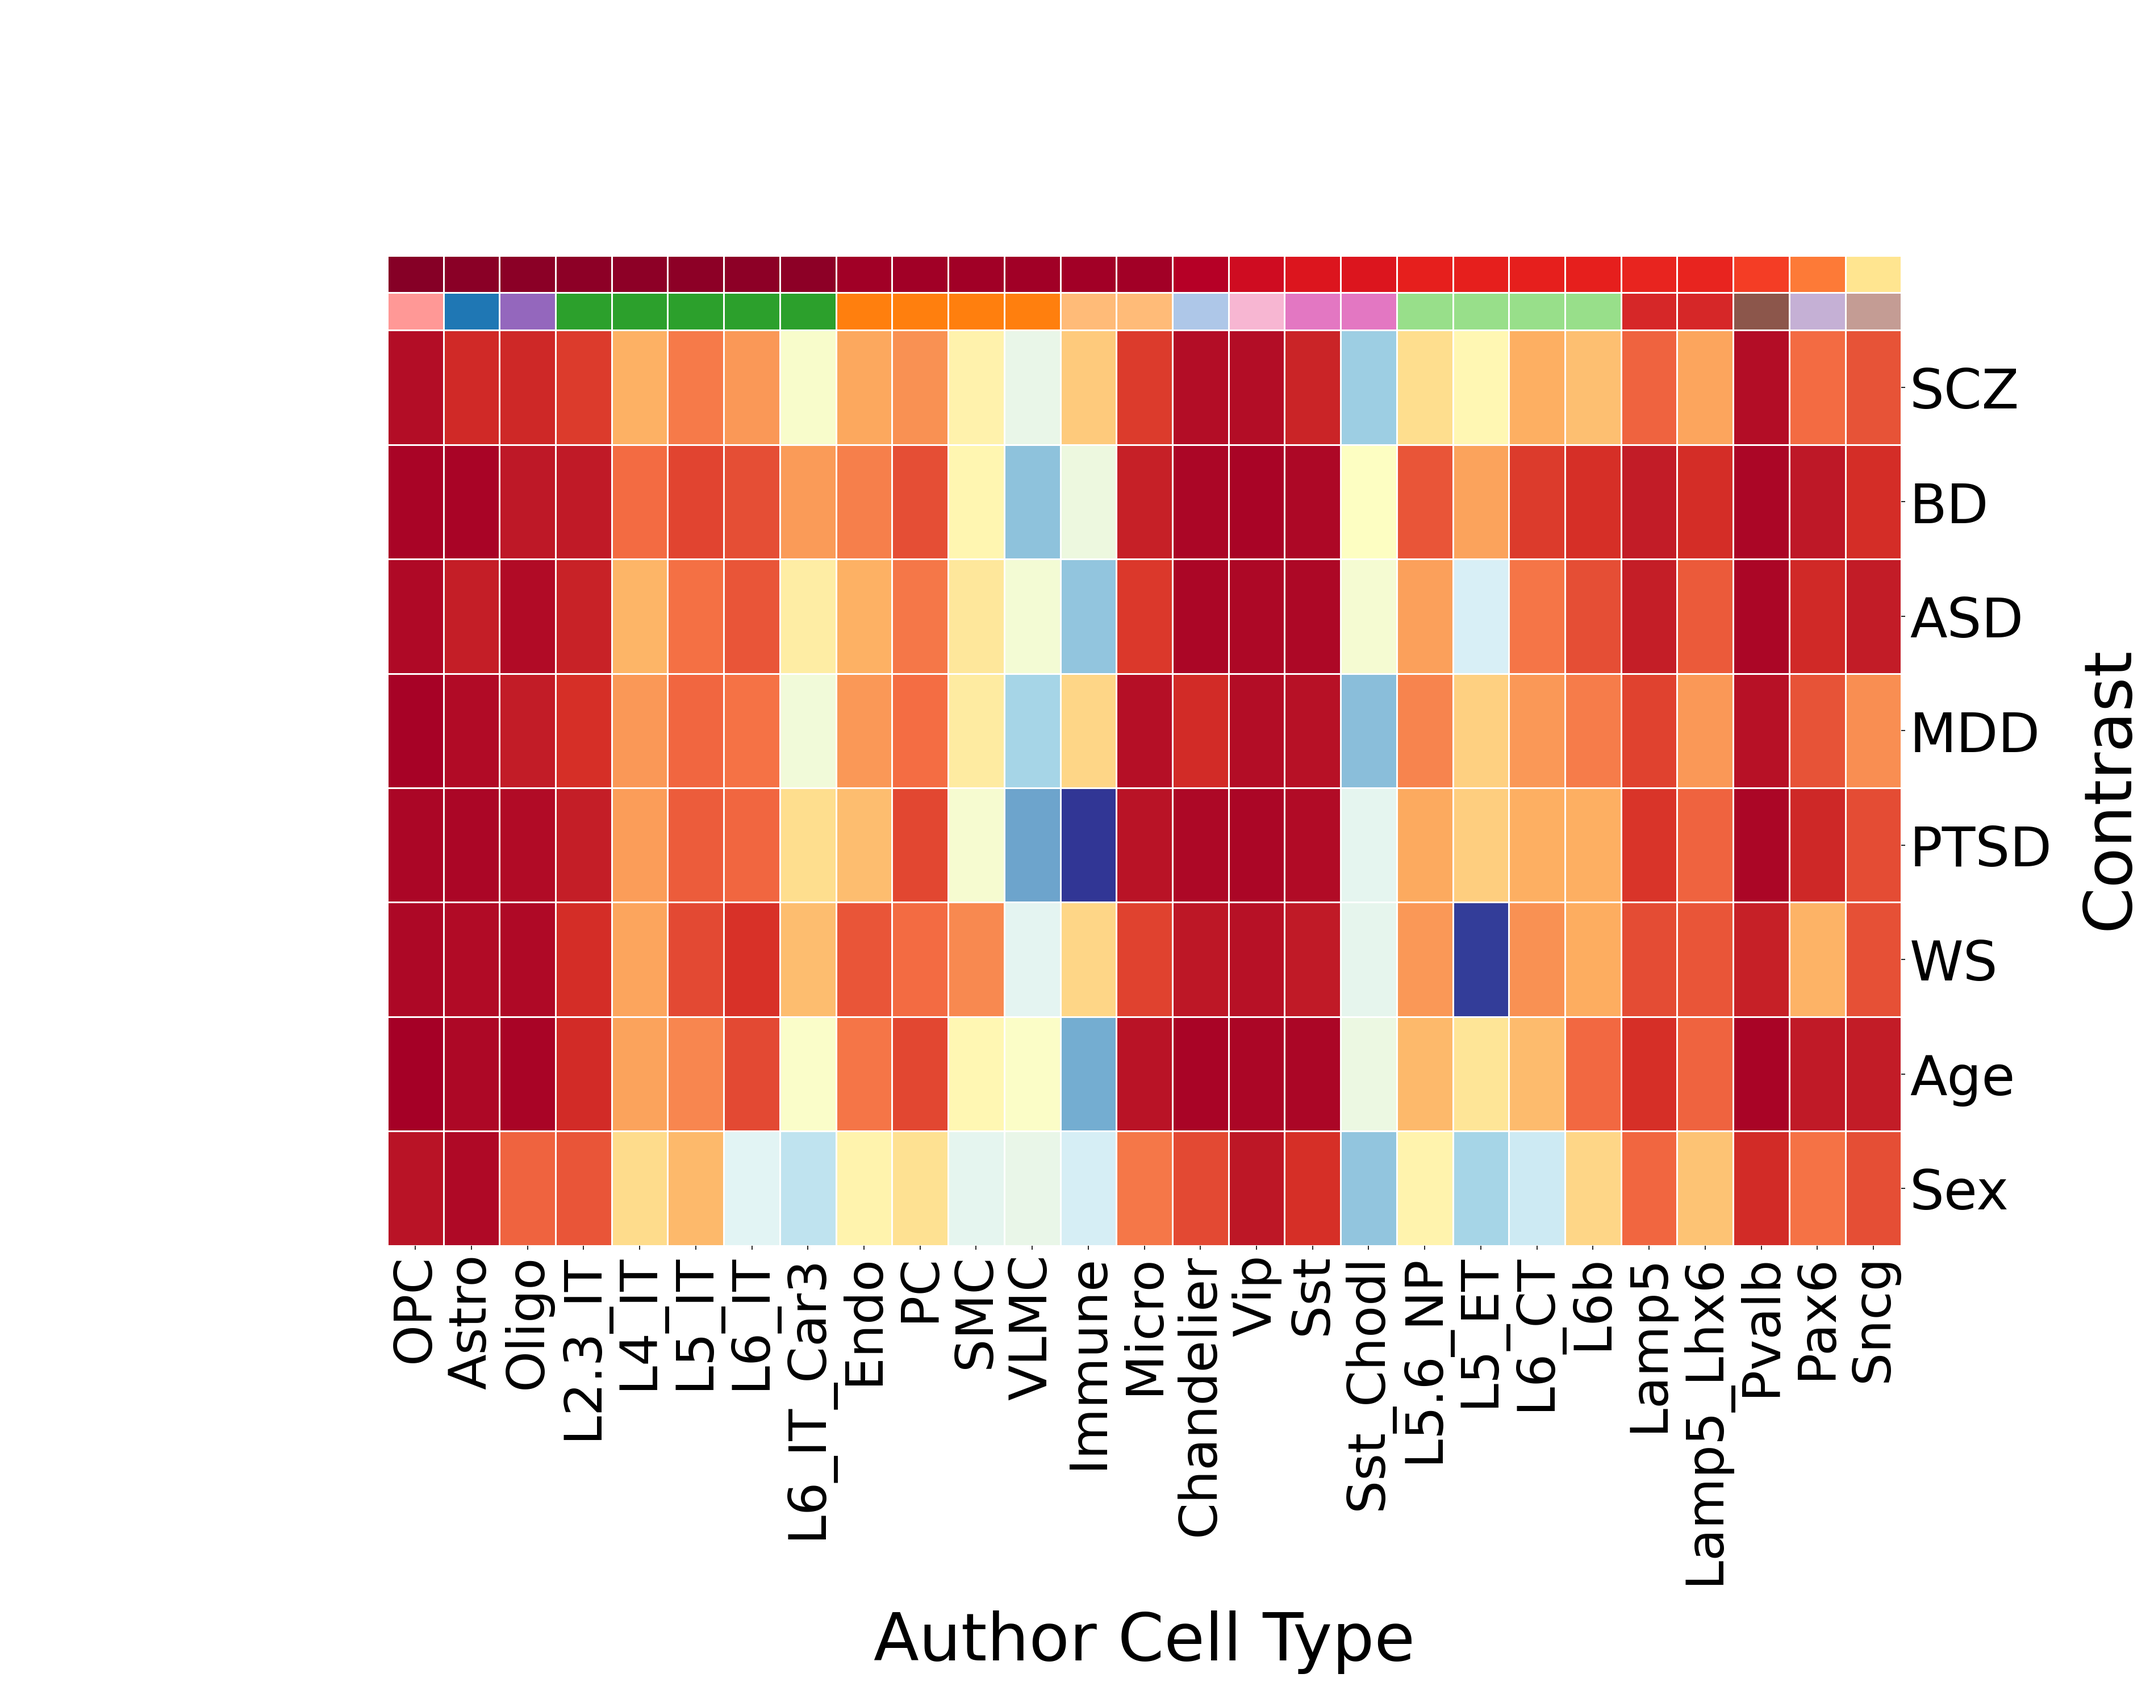
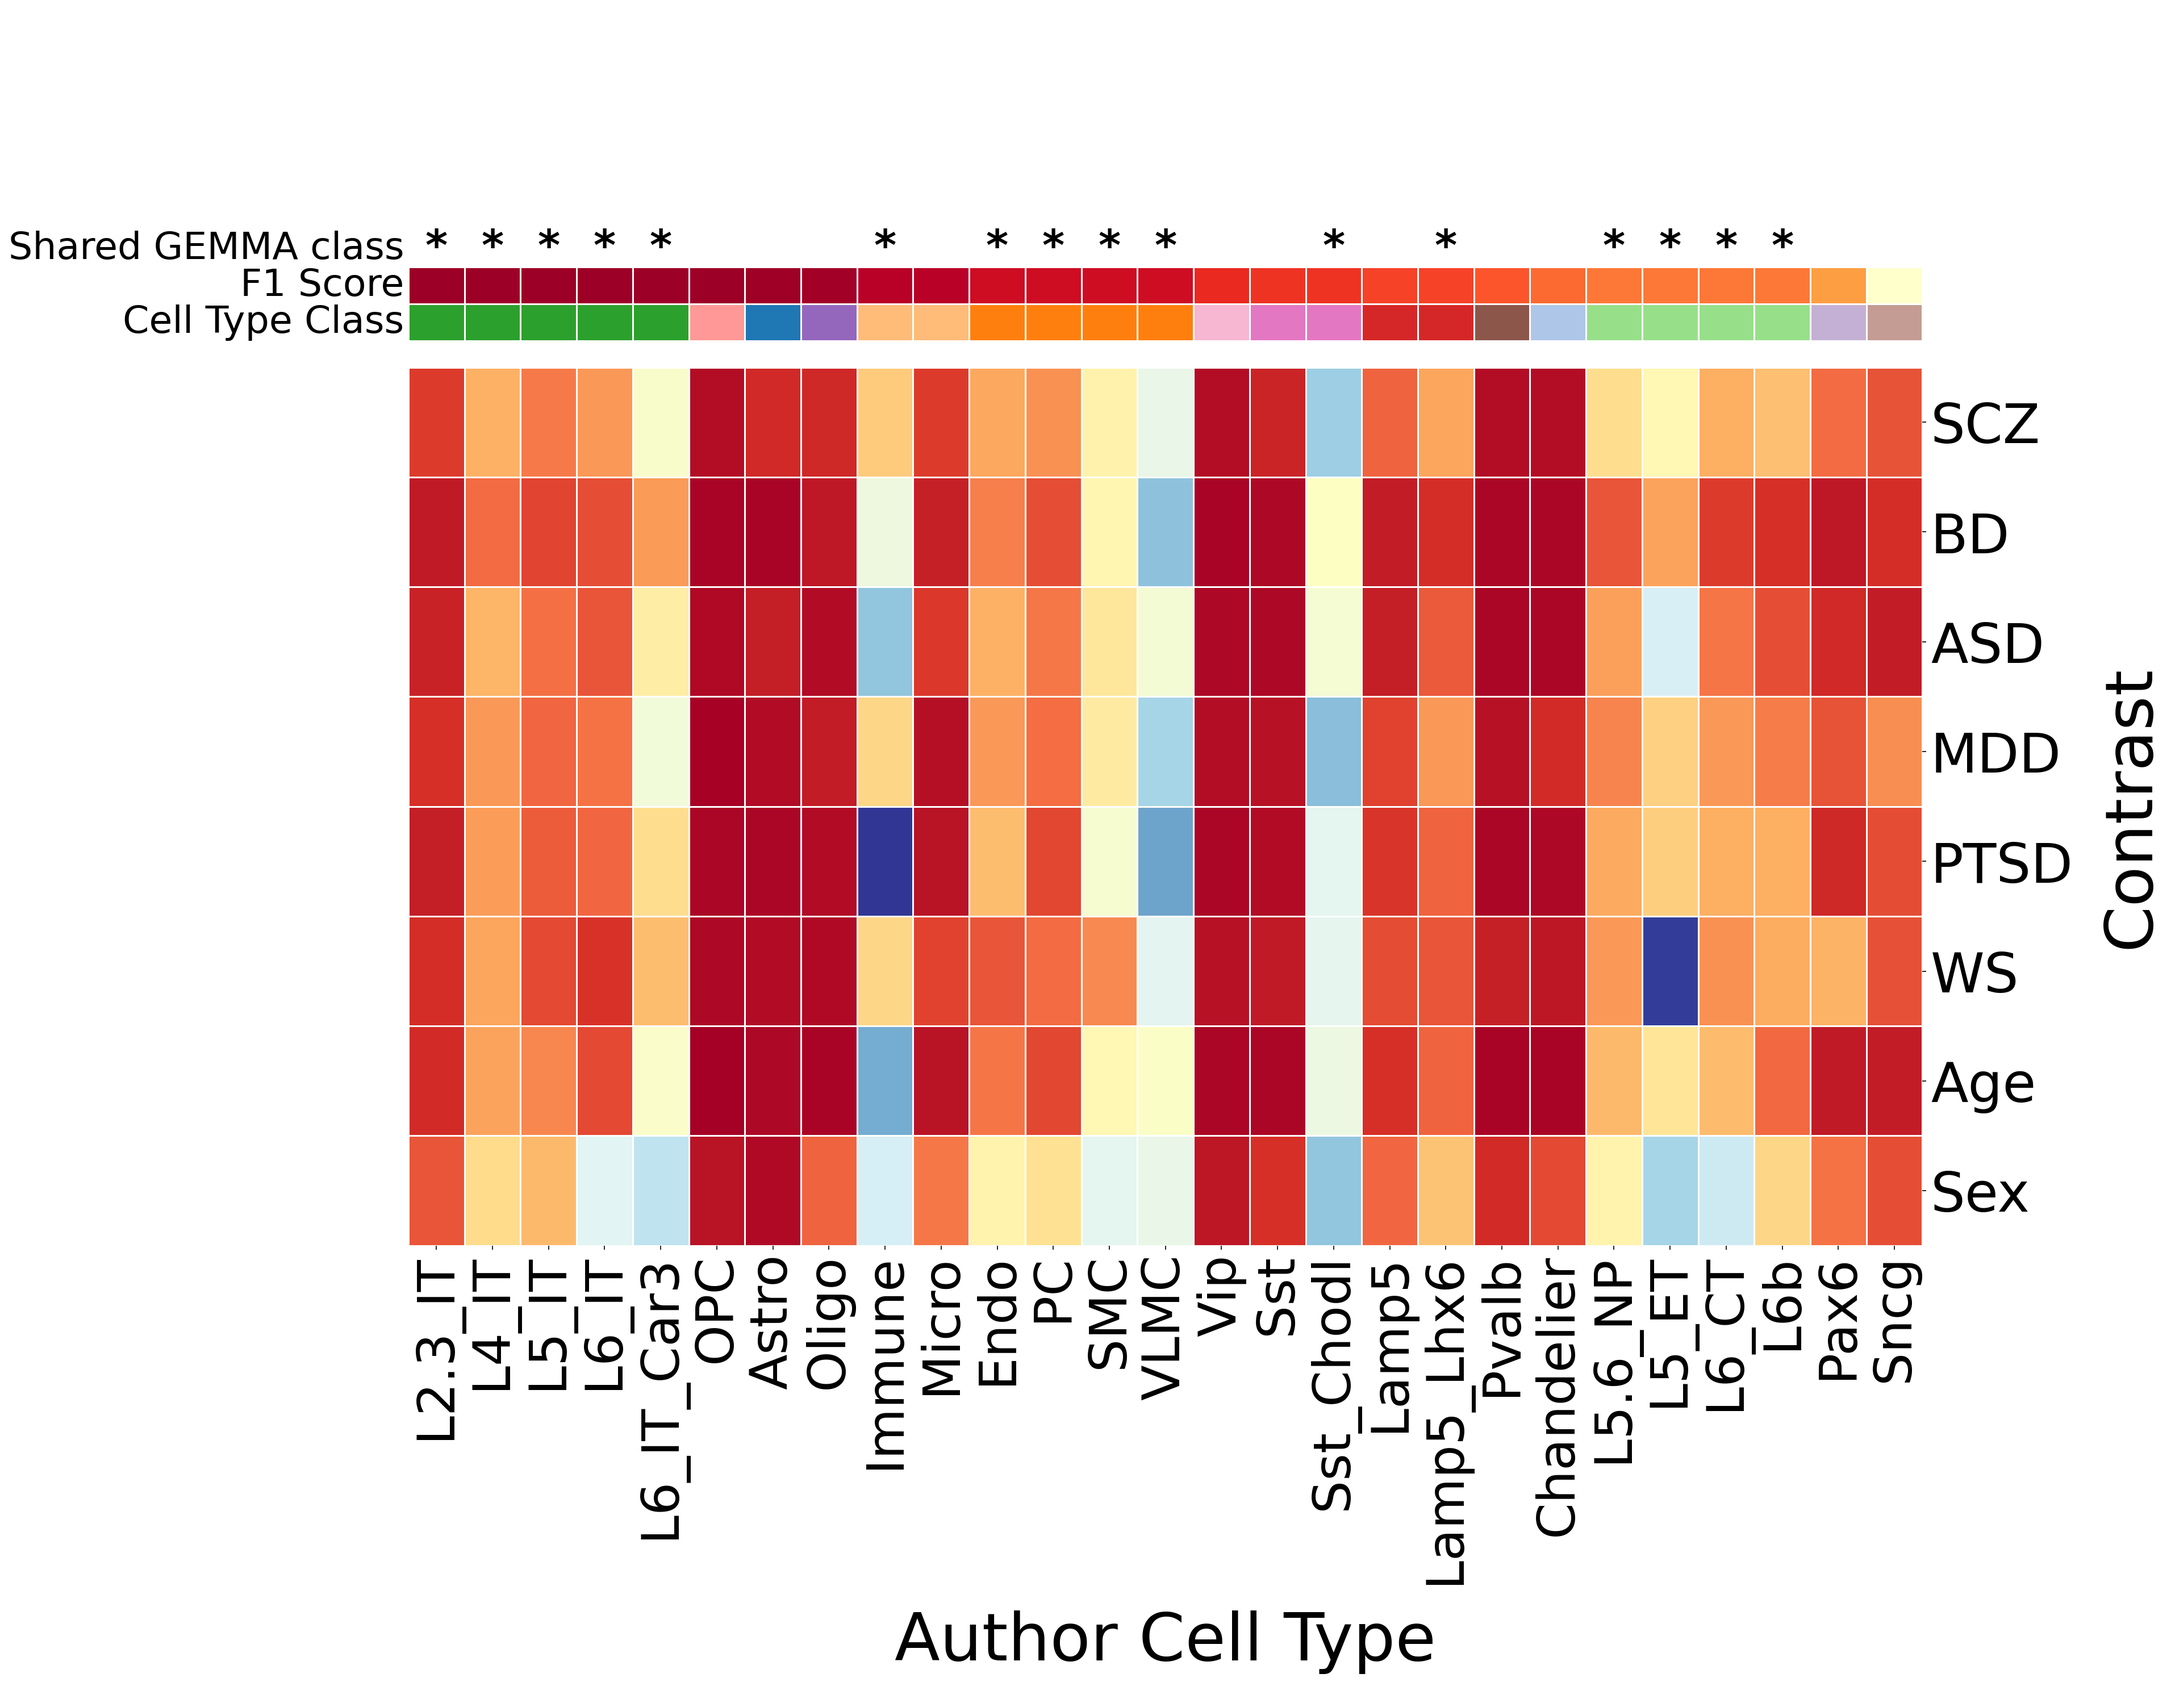
Add F1 benchmark annotations and asterisk indicators to heatmaps
- Sort heatmap columns by GEMMA class F1 desc, then within-class F1 desc
- Add three-row col_colors block: white/asterisk row, F1 score row, cell type class row
- Flag author cell types without a direct benchmark label match with * on the plot
- Use normalized prefix matching to determine direct coverage (e.g. Micro→Microglia yes, Immune→Microglia no)
- Add asterisk explanatory note to legend figure
- Add bin/make_f1_table.py to generate label_metrics_stats_per_label.tsv from label_results.tsv.gz
- Update F1 path in run_comparison_only.sh to use new source_data file

diff --git a/bin/utils.py b/bin/utils.py
@@ -3,7 +3,8 @@ import matplotlib.patches as mpatches
 import seaborn as sns
 import numpy as np
 import pandas as pd
-from collections import OrderedDict
+import re
+from collections import OrderedDict, Counter
 
 def reverse_lookup(mapping, value):
     """Return all keys that map to the given value."""
@@ -206,11 +207,14 @@ def plot_correlation_heatmap(combined_df, gemma_to_gemma_map, metric="spearman_l
     f1_label_to_class = f1_label_to_class_map.get(annotation_level, f1_label_to_class_map["class"])
 
     ct_to_f1 = {}
+    gemma_class_to_bench_labels = {}  # GEMMA class -> benchmark labels found in F1 file
     if f1_path is not None:
         f1_df = pd.read_csv(f1_path, sep="\t")
-        f1_df = f1_df[(f1_df["key"] == annotation_level) & (f1_df["metric"] == "f1_score")]
+        if "key" in f1_df.columns and annotation_level in f1_df["key"].values:
+            f1_df = f1_df[f1_df["key"] == annotation_level]
+        f1_score_col = "mean_f1_score" if "mean_f1_score" in f1_df.columns else "mean"
         class_to_f1 = {
-            f1_label_to_class[row["label"]]: row["mean"]
+            f1_label_to_class[row["label"]]: row[f1_score_col]
             for _, row in f1_df.iterrows()
             if row["label"] in f1_label_to_class
         }
@@ -218,19 +222,42 @@ def plot_correlation_heatmap(combined_df, gemma_to_gemma_map, metric="spearman_l
             ct: class_to_f1.get(gemma_to_gemma_map.get(ct, ""), np.nan)
             for ct in pivot.columns
         }
+        for _, row in f1_df.iterrows():
+            if row["label"] in f1_label_to_class:
+                cls = f1_label_to_class[row["label"]]
+                gemma_class_to_bench_labels.setdefault(cls, set()).add(row["label"])
 
-    # Sort columns: by F1 score descending (if available), else by pipeline class + mean
-    if ct_to_f1:
-        pivot = pivot[sorted(pivot.columns, key=lambda ct: ct_to_f1.get(ct, -1), reverse=True)]
-    else:
-        col_mean = pivot.mean(axis=0)
-        sort_key = pivot.columns.map(
-            lambda ct: (classes_present.index(author_to_class.get(ct, classes_present[0])), -col_mean.get(ct, 0))
+    def _norm(s):
+        return re.sub(r'[^a-z0-9]', '', s.lower())
+
+    def has_direct_f1_match(author_ct, gemma_class):
+        """True if a benchmark label for this GEMMA class starts with the author CT name."""
+        auth_norm = _norm(author_ct)
+        return any(
+            _norm(b).startswith(auth_norm)
+            for b in gemma_class_to_bench_labels.get(gemma_class, set())
         )
-        pivot = pivot.iloc[:, sort_key.argsort()]
+
+    # Sort columns: groups sorted by class F1 descending, within group by F1 descending
+    class_f1 = {}
+    for ct, cls in author_to_class.items():
+        f1 = ct_to_f1.get(ct, np.nan)
+        if not np.isnan(f1):
+            class_f1[cls] = f1
+    col_mean = pivot.mean(axis=0)
+    pivot = pivot[sorted(pivot.columns, key=lambda ct: (
+        -class_f1.get(author_to_class.get(ct, ""), -1),
+        -ct_to_f1.get(ct, -1) if ct_to_f1 else -col_mean.get(ct, 0)
+    ))]
 
     # --- Column colour sidebars ---
     class_colors = [class_palette[author_to_class[ct]] for ct in pivot.columns]
+
+    # Flag author CTs that have no direct benchmark label match for their GEMMA class
+    shared_class_cols = [
+        i for i, ct in enumerate(pivot.columns)
+        if ct_to_f1 and not has_direct_f1_match(ct, author_to_class.get(ct, ""))
+    ]
 
     if ct_to_f1:
         f1_cmap = plt.cm.YlOrRd
@@ -240,7 +267,9 @@ def plot_correlation_heatmap(combined_df, gemma_to_gemma_map, metric="spearman_l
             f1_cmap(f1_norm(v)) if not np.isnan(v) else (0.85, 0.85, 0.85, 1.0)
             for v in f1_vals
         ]
-        col_colors = [f1_colors, class_colors]
+        # Top row: white background, asterisks drawn on shared-class columns
+        shared_colors = [(1.0, 1.0, 1.0, 1.0)] * len(pivot.columns)
+        col_colors = [shared_colors, f1_colors, class_colors]
     else:
         col_colors = class_colors
 
@@ -266,6 +295,25 @@ def plot_correlation_heatmap(combined_df, gemma_to_gemma_map, metric="spearman_l
     g.ax_heatmap.tick_params(axis="x", labelsize=44, rotation=90)
     g.ax_heatmap.tick_params(axis="y", labelsize=46, rotation=0)
 
+    # Label the col_colors rows, add gap, and annotate shared-class columns with *
+    if hasattr(g, "ax_col_colors"):
+        if ct_to_f1:
+            g.ax_col_colors.set_yticks([0.5, 1.5, 2.5])
+            g.ax_col_colors.set_yticklabels(["Shared GEMMA class", "F1 Score", "Cell Type Class"],
+                                             fontsize=32, rotation=0, va="center")
+            for col_i in shared_class_cols:
+                g.ax_col_colors.text(col_i + 0.5, 0.5, "*", ha="center", va="center",
+                                     fontsize=36, fontweight="bold", color="black")
+        else:
+            g.ax_col_colors.set_yticks([0.5])
+            g.ax_col_colors.set_yticklabels(["Cell Type Class"], fontsize=32, rotation=0, va="center")
+        g.ax_col_colors.yaxis.set_tick_params(labelleft=True, left=True, length=0)
+        g.fig.canvas.draw()
+        cc_pos = g.ax_col_colors.get_position()
+        hm_pos = g.ax_heatmap.get_position()
+        gap = hm_pos.height * 0.03
+        g.ax_col_colors.set_position([cc_pos.x0, hm_pos.y1 + gap, cc_pos.width, cc_pos.height])
+
     if output_path is None:
         output_path = f"heatmap_{metric}.png"
     g.savefig(output_path, dpi=150, bbox_inches="tight")
@@ -278,7 +326,7 @@ def plot_correlation_heatmap(combined_df, gemma_to_gemma_map, metric="spearman_l
     legend_fig = plt.figure(figsize=(26, 14))
 
     # Spearman / Jaccard colorbar (tall, thin, left side)
-    cbar_ax = legend_fig.add_axes([0.05, 0.15, 0.035, 0.72])
+    cbar_ax = legend_fig.add_axes([0.05, 0.28, 0.035, 0.68])
     sm_main = plt.cm.ScalarMappable(
         cmap=plt.cm.RdYlBu_r,
         norm=plt.Normalize(vmin=settings["vmin"], vmax=settings["vmax"]),
@@ -288,14 +336,21 @@ def plot_correlation_heatmap(combined_df, gemma_to_gemma_map, metric="spearman_l
     cbar_ax.tick_params(labelsize=40)
     cbar_ax.set_ylabel(settings["cbar_label"], fontsize=48, labelpad=22)
 
-    # F1 score colorbar
+    # F1 score colorbar + shared-class note
     if ct_to_f1:
-        f1_ax = legend_fig.add_axes([0.19, 0.15, 0.035, 0.72])
+        f1_ax = legend_fig.add_axes([0.19, 0.28, 0.035, 0.68])
         sm_f1 = plt.cm.ScalarMappable(cmap=plt.cm.YlOrRd, norm=plt.Normalize(vmin=0.7, vmax=1.0))
         sm_f1.set_array([])
         legend_fig.colorbar(sm_f1, cax=f1_ax)
         f1_ax.tick_params(labelsize=40)
         f1_ax.set_ylabel("F1 Score", fontsize=48, labelpad=22)
+
+        # Asterisk note below both colorbars, left-aligned to stay clear of the class legend
+        legend_fig.text(
+            0.05, 0.10,
+            "* = multiple author cell types\n    share one GEMMA class;\n    F1 score is for the class",
+            fontsize=36, va="top", ha="left", linespacing=1.4,
+        )
 
     # Pipeline Cell Type Class legend (right side)
     legend_handles = [

diff --git a/bin/make_f1_table.py b/bin/make_f1_table.py
@@ -1,0 +1,39 @@
+import argparse
+import pandas as pd
+
+
+def parse_arguments():
+    parser = argparse.ArgumentParser(description="Aggregate per-query F1 scores to per-label means for heatmap annotation")
+    parser.add_argument("--input", required=True, help="Path to label_results.tsv.gz")
+    parser.add_argument("--output", required=True, help="Output path for label_metrics_stats_per_label.tsv")
+    parser.add_argument("--method", default="scvi", help="Annotation method to filter on")
+    parser.add_argument("--cutoff", type=float, default=0.05, help="Confidence cutoff to filter on")
+    parser.add_argument("--subsample_ref", type=int, default=100, help="Reference subsample size to filter on")
+    parser.add_argument("--keys", nargs="+", default=["class", "subclass"], help="Annotation levels to include")
+    return parser.parse_args()
+
+
+def main():
+    args = parse_arguments()
+
+    df = pd.read_csv(args.input, sep="\t")
+    df = df[
+        (df["method"] == args.method) &
+        (df["cutoff"] == args.cutoff) &
+        (df["subsample_ref"] == args.subsample_ref) &
+        (df["key"].isin(args.keys))
+    ]
+
+    result = (
+        df.groupby(["key", "label"])["f1_score"]
+        .mean()
+        .reset_index()
+        .rename(columns={"f1_score": "mean"})
+    )
+    result["metric"] = "f1_score"
+    result[["key", "metric", "label", "mean"]].to_csv(args.output, sep="\t", index=False)
+    print(f"Wrote {len(result)} rows to {args.output}")
+
+
+if __name__ == "__main__":
+    main()
